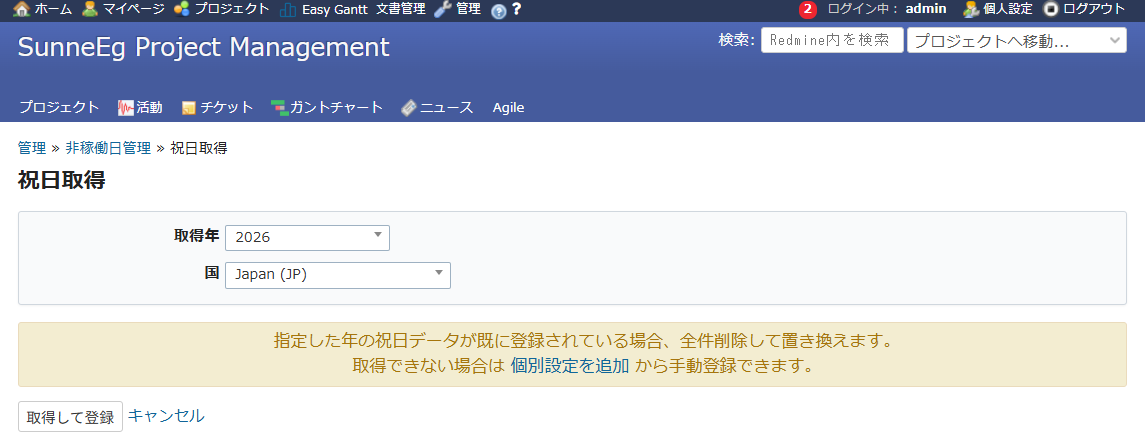
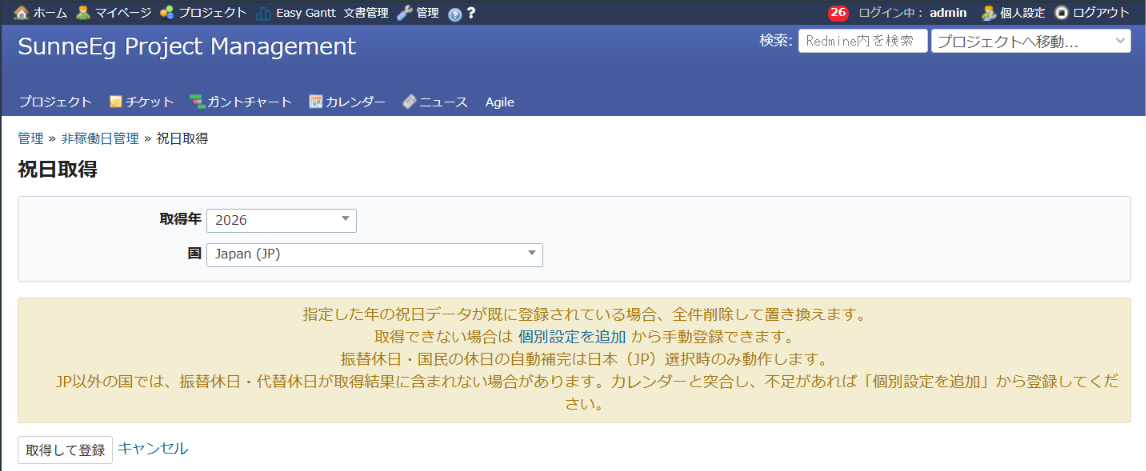
Complete Japanese substitute and citizens' holidays on import
Importing Japanese holidays through Nager.Date produced a calendar that
did not match the legal Japanese one. The API returns neither substitute
holidays (振替休日, Article 3(2)) nor citizens' holidays (国民の休日,
Article 3(3)), and when a holiday falls on a Sunday it shifts that
holiday to its observed date and returns a single entry, dropping the
statutory date.

  2024: nothing on 09-23; correct is 09-22 Autumnal Equinox Day (Sun)
        plus 09-23 substitute holiday
  2025: 02-24 "天皇誕生日"; correct is 02-23 plus 02-24 substitute
  2026: 05-06 "憲法記念日"; correct is 05-03 plus 05-06 substitute
  2026: nothing on 09-22; correct is 09-22 citizens' holiday

That "shift and return one entry" model is right for countries where
only the observed day is a statutory day off, but not for Japan, where
the statutory date stays a holiday and the substitute day is added on
top of it. Since the rules differ per country this is applied to JP
only, as a post-processing step after the fetch.

The correction runs in two stages:

1. Restore statutory dates. A table of fixed-date holidays maps a name
   to its statutory date, and a holiday the API shifted is moved back.
   To avoid corrupting correct data this happens only when the name
   matches the table, the statutory date falls on a Sunday, and the API
   returned a later date. Anything else passes through untouched, so an
   unrecognised name simply falls back to the API's own result.
[…]

diff --git a/lib/redmine_non_working_days/japanese_holidays.rb b/lib/redmine_non_working_days/japanese_holidays.rb
@@ -1,0 +1,188 @@
+# frozen_string_literal: true
+
+module RedmineNonWorkingDays
+  # 日本の「国民の祝日に関する法律」に基づき、祝日取得結果を補正・補完する。
+  #
+  # Nager.Date API の日本データには2種類の問題がある。
+  #   A. 日曜と重なった祝日を振替日へ移動して1件だけ返し、法定日が結果から消える
+  #      （例: 2026年は 05-06 を「憲法記念日」として返し、法定日の 05-03 を返さない）
+  #   B. 移動処理が働かない年があり、その場合は振替休日が完全に欠落する
+  #      （例: 2024-09-23、2027-03-22）。国民の休日も返さない（例: 2026-09-22）
+  #
+  # 日本は法定日も祝日のまま残したうえで振替休日が加わる（休みは2日）が、
+  # 英米は振替日のみが法定休日（1日）であり、APIの返し方は英米には適合する。
+  # 制度が国ごとに異なるため、本モジュールは日本にのみ適用する。
+  #
+  # DB・HTTPに依存しない純粋なロジックとして実装し、単体で検証できるようにしている。
+  module JapaneseHolidays
+    COUNTRY_CODE = 'JP'
+
+    # 振替休日（法第3条第2項）の施行日。1973-04-12 の改正法から。
+    SUBSTITUTE_START_DATE = Date.new(1973, 4, 12)
+    # 2007-01-01 施行の改正で「翌日」から「その日後で最も近い祝日でない日」へ変更。
+    # それ以前は翌日が祝日の場合、振替休日は発生しない。
+    SUBSTITUTE_NEAREST_FROM = Date.new(2007, 1, 1)
+    # 国民の休日（法第3条第3項）の施行日。1985-12-27 の改正法から。
+    CITIZENS_START_DATE = Date.new(1985, 12, 27)
+
+    # 法定日が固定されている祝日の対応表（名称 => [[月, 日, 適用開始年, 適用終了年], ...]）。
+    # 適用終了年 nil は現行制度。同じ名称で法定日が変わったものは複数行持つ。
+    #
+    # ハッピーマンデー（成人の日・海の日・敬老の日・スポーツの日の現行制度）は
+    # 必ず月曜となり日曜と重ならないため、現行期間は対象外。
+    # 春分の日・秋分の日は日付が変動するうえ、APIが移動させない実測結果のため対象外。
+    FIXED_DATE_HOLIDAYS = {
+      '元日'         => [[1, 1, 1949, nil]],
+      '成人の日'     => [[1, 15, 1949, 1999]],   # 2000年からハッピーマンデー
+      '建国記念の日' => [[2, 11, 1967, nil]],
+      '天皇誕生日'   => [[4, 29, 1949, 1988],    # 昭和
+                        [12, 23, 1989, 2018],   # 平成
+                        [2, 23, 2020, nil]],    # 令和（2019年は該当なし）
+      'みどりの日'   => [[4, 29, 1989, 2006],
+                        [5, 4, 2007, nil]],
+      '昭和の日'     => [[4, 29, 2007, nil]],
+      '憲法記念日'   => [[5, 3, 1949, nil]],
+      'こどもの日'   => [[5, 5, 1949, nil]],
+      '海の日'       => [[7, 20, 1996, 2002]],   # 2003年からハッピーマンデー
+      '山の日'       => [[8, 11, 2016, nil]],
+      '敬老の日'     => [[9, 15, 1966, 2002]],   # 2003年からハッピーマンデー
+      '体育の日'     => [[10, 10, 1966, 1999]],  # 2000年からハッピーマンデー
+      '文化の日'     => [[11, 3, 1948, nil]],
+      '勤労感謝の日' => [[11, 23, 1948, nil]],
+    }.freeze
+
+    # generate() への入力を「第2条の国民の祝日」に限定するための除外マーカー。
+    # 現行制度上、第2条の国民の祝日の名称にはこれらの文字列を含まない。APIが
+    # 将来これらを独立エントリとして返すようになった場合、除外せずに渡すと
+    # 「休日」を「祝日」と誤認し、次の振替休日判定を1日後ろへ余分にずらして
+    # しまう（レビュー指摘: MR!59 #1121）。
+    #
+    # 部分一致のため、特別法上の祝日（例: 2019年即位関連の「休日（祝日扱い）」）
+    # のように名称に「休日」を含む祝日が入力に来ると誤って除外されうる。ただし
+    # そうした特別法上の祝日はこのモジュールの対応表・対応年に含めておらず
+    # （README「Japanese Holidays」節に明記）、現行のNager.Date APIも該当する
+    # 年・名称を返さないため（1980〜2035年で実測、該当0件）、現時点で誤爆は
+    # 発生しない（レビュー指摘: MR!59 #1133）。
+    DAY_OFF_TITLE_MARKERS = ['休日', 'Substitute', 'Observed'].freeze
+
+    module_function
+
+    def applicable?(country_code)
+      country_code.to_s.upcase == COUNTRY_CODE
+    end
+
+    # 取得した祝日を補正・補完して、登録すべき祝日・休日の一覧を返す。
+    #
+    # @param entries [Array<Hash>] [{ date: Date, title: String }, ...]（API取得結果）
+    # @param year    [Integer] 取得対象年
+    # @return [Array<Hash>] [{ date: Date, title: String }, ...] を日付順で返す
+    def complete(entries, year)
+      corrected = correct_legal_dates(entries, year)
+
+      # 第2条の国民の祝日のみを generate() に渡す。既に「休日」であるエントリ
+      # （振替休日・国民の休日相当）を祝日として渡さない。
+      statutory_dates = corrected.reject { |e| day_off_title?(e[:title]) }.map { |e| e[:date] }
+
+      # 生成分は対象年内に限定する。取込は対象年のholidayを全削除して置き換える方式のため、
+      # 年をまたいで登録すると再取込時に洗い替えされず残骸になる。
+      generated = generate(statutory_dates).select { |e| e[:date].year == year }
+
+      # correct_legal_dates は複数エントリを同じ法定日へ書き戻すことがある
+      # （例: APIが法定日・観測日を同名で2件返した場合）。日付+名称が重複した
+      # 行を1件に畳む（レビュー指摘: MR!59 #1120）。DBにユニーク制約が無いため
+      # ここで畳んでおかないと create! がサイレントに重複登録してしまう。
+      (corrected + generated).uniq { |e| [e[:date], e[:title]] }.sort_by { |e| [e[:date], e[:title]] }
+    end
+
+    def day_off_title?(title)
+      DAY_OFF_TITLE_MARKERS.any? { |marker| title.to_s.include?(marker) }
+    end
+
+    # 問題A対策: APIが振替日へ移動して返した祝日を法定日へ戻す。
+    #
+    # 誤補正を避けるため、以下をすべて満たす場合のみ日付を戻す。
+    #   - 名称が対応表に一致する
+    #   - 取得年が当該祝日の適用年の範囲内である
+    #   - 法定日が日曜である（日本では日曜と重なった場合しか移動が起きない）
+    #   - APIの日付が法定日より後である（前倒し移動する国のロジックを誤適用しない）
+    # 一致しない場合は何もしないため、対応表が古くても現状より悪化しない。
+    def correct_legal_dates(entries, year)
+      entries.map do |entry|
+        legal = legal_date(entry[:title], year)
+        next entry if legal.nil?
+        next entry unless legal.sunday? && entry[:date] > legal
+
+        entry.merge(date: legal)
+      end
+    end
+
+    def legal_date(title, year)
+      rules = FIXED_DATE_HOLIDAYS[title]
+      return nil if rules.nil?
+
+      rule = rules.find { |(_m, _d, from, to)| year >= from && (to.nil? || year <= to) }
+      return nil if rule.nil?
+
+      Date.new(year, rule[0], rule[1])
+    end
+
+    # 問題B対策: 祝日から振替休日・国民の休日を導出する。
+    #
+    # @param holiday_dates [Enumerable<Date>] 祝日（振替休日等を含まない）の日付
+    def generate(holiday_dates)
+      holidays    = Set.new(Array(holiday_dates))
+      substitutes = substitute_dates(holidays)
+      citizens    = citizens_dates(holidays, substitutes)
+
+      (substitutes.map { |d| { date: d, title: substitute_title } } +
+       citizens.map    { |d| { date: d, title: citizens_title } }).sort_by { |h| h[:date] }
+    end
+
+    # 振替休日（法第3条第2項）:
+    # 祝日が日曜に当たるとき、その日後で最も近い「祝日でない日」を休日とする。
+    def substitute_dates(holidays)
+      result = []
+      holidays.select { |d| d.sunday? && d >= SUBSTITUTE_START_DATE }.sort.each do |sunday|
+        candidate = sunday + 1
+        if sunday >= SUBSTITUTE_NEAREST_FROM
+          candidate += 1 while holidays.include?(candidate) || result.include?(candidate)
+        else
+          # 改正前は翌日固定。翌日が祝日なら振替休日は発生しない。
+          next if holidays.include?(candidate)
+        end
+        result << candidate
+      end
+      result
+    end
+
+    # 国民の休日（法第3条第3項）:
+    # 前日・翌日がいずれも祝日である日を休日とする。
+    # ただし日曜日・振替休日に当たる日は除く。
+    def citizens_dates(holidays, substitute_dates)
+      return [] if holidays.empty?
+
+      excluded = holidays | Set.new(substitute_dates)
+      (holidays.min..holidays.max).select do |date|
+        date >= CITIZENS_START_DATE &&
+          !excluded.include?(date) &&
+          !date.sunday? &&
+          holidays.include?(date - 1) &&
+          holidays.include?(date + 1)
+      end
+    end
+
+    # タイトルはRedmineのデフォルト言語で決定する（Cache.weekday_title と同様）。
+    # 取得操作をしたユーザーの個人設定でDBに保存される名称が変わらないようにするため。
+    def substitute_title
+      translate(:label_non_working_day_substitute_holiday, '振替休日')
+    end
+
+    def citizens_title
+      translate(:label_non_working_day_citizens_holiday, '国民の休日')
+    end
+
+    def translate(key, fallback)
+      ::I18n.t(key, locale: ::Setting.default_language, default: fallback)
+    end
+  end
+end

diff --git a/app/controllers/non_working_days_controller.rb b/app/controllers/non_working_days_controller.rb
@@ -155,30 +155,35 @@ class NonWorkingDaysController < ApplicationController
       return redirect_to fetch_non_working_day_holidays_path(year: year)
     end
 
+    # Nager.Date API は州・地域ごとの祝日を別レコードとして返すため、
+    # 同一日付・同一名称のものが重複して含まれる（例: 米国の Good Friday）。
+    # 非稼働日カレンダーとしては日付＋名称が同じなら1件で十分なため重複排除する。
+    entries = holidays
+      .map { |h| { date: Date.parse(h['date']), title: h['localName'].presence || h['name'] } }
+      .uniq { |h| [h[:date], h[:title]] }
+
+    # 日本のみ: APIが返さない振替休日・国民の休日を補完し、
+    # APIが振替日へ移動して返した祝日を法定日へ戻す。
+    entries = RedmineNonWorkingDays::JapaneseHolidays.complete(entries, year) if complete_jp_holidays?(country_code)
+
     NonWorkingDayEntry.transaction do
       # 指定年の holiday を国コードに関わらず全削除して置き換え
       NonWorkingDayEntry.holidays
         .where('EXTRACT(YEAR FROM date) = ?', year)
         .delete_all
 
-      # Nager.Date API は州・地域ごとの祝日を別レコードとして返すため、
-      # 同一日付・同一名称のものが重複して含まれる（例: 米国の Good Friday）。
-      # 非稼働日カレンダーとしては日付＋名称が同じなら1件で十分なため重複排除する。
-      holidays
-        .map { |h| { date: Date.parse(h['date']), title: h['localName'].presence || h['name'] } }
-        .uniq { |h| [h[:date], h[:title]] }
-        .each do |h|
-          NonWorkingDayEntry.create!(
-            date:         h[:date],
-            title:        h[:title],
-            kind:         'holiday',
-            country_code: country_code
-          )
-        end
+      entries.each do |h|
+        NonWorkingDayEntry.create!(
+          date:         h[:date],
+          title:        h[:title],
+          kind:         'holiday',
+          country_code: country_code
+        )
+      end
     end
 
     RedmineNonWorkingDays::Cache.invalidate!
-    flash[:notice] = l(:notice_non_working_day_holidays_imported, count: holidays.size, year: year, country: country_code)
+    flash[:notice] = l(:notice_non_working_day_holidays_imported, count: entries.size, year: year, country: country_code)
     redirect_to non_working_days_path(year: year)
   end
 
@@ -231,6 +236,14 @@ class NonWorkingDaysController < ApplicationController
     PRIVATE_IP_RANGES.any? { |range| range.include?(addr) }
   rescue IPAddr::Error
     false # ホスト名（IPアドレスでない）の場合はここでは判定しない
+  end
+
+  # 振替休日・国民の休日の自動補完を行うか。日本以外では制度が異なるため適用しない。
+  # 設定が未保存の既存インストールでは既定でON（nil.to_s != '0'）。
+  def complete_jp_holidays?(country_code)
+    return false unless RedmineNonWorkingDays::JapaneseHolidays.applicable?(country_code)
+
+    Setting.plugin_redmine_non_working_days['auto_complete_jp_holidays'].to_s != '0'
   end
 
   def bulk_ids

diff --git a/init.rb b/init.rb
@@ -10,6 +10,7 @@ require_relative 'lib/redmine_non_working_days/date_calculation_patch'
 require_relative 'lib/redmine_non_working_days/gantt_helper'
 require_relative 'lib/redmine_non_working_days/gantt_patch'
 require_relative 'lib/redmine_non_working_days/hooks'
+require_relative 'lib/redmine_non_working_days/japanese_holidays'
 
 Redmine::Plugin.register :redmine_non_working_days do
   name        'Redmine Non Working Days'
@@ -17,9 +18,10 @@ Redmine::Plugin.register :redmine_non_working_days do
   author_url  'https://github.com/SunnyEg-lab'
   url         'https://github.com/SunnyEg-lab/redmine_non_working_days'
   description 'Manage non-working days by public holidays, custom dates, and recurring rules'
-  version     '1.1.0'
+  version     '1.2.0'
 
-  settings default: { 'nager_api_base' => 'https://date.nager.at' },
+  settings default: { 'nager_api_base'            => 'https://date.nager.at',
+                      'auto_complete_jp_holidays' => '1' },
            partial: 'settings/non_working_days_settings'
 
   menu :admin_menu,

diff --git a/README.md b/README.md
@@ -5,6 +5,7 @@ A Redmine plugin that manages non-working days — public holidays, custom fixed
 ## Features
 
 - **Public holiday import** — fetch public holidays per country/year via the [Nager.Date](https://date.nager.at/) API and register them with one click
+- **Japanese substitute holidays** — when importing holidays for Japan, substitute holidays (振替休日) and citizens' holidays (国民の休日) are completed automatically, and holidays the API shifted to their observed date are restored to their statutory date ([details](#japanese-holidays-jp-only))
 - **Custom fixed dates** — register one-off non-working days (e.g. summer/winter company holidays)
 - **Recurring rules** — define repeating non-working days using one of four patterns, each with an optional valid date range:
   - Specific day(s) of the month (e.g. the 15th and the last day)
@@ -110,9 +111,46 @@ This plugin adds an entry under the **Administration** menu. Viewing and editing
 Go to **Administration → Plugins → Redmine Non Working Days** to configure:
 
 - **Nager.Date API Base URL** — the base URL used to fetch public holiday data (defaults to `https://date.nager.at`)
+- **Auto-complete Japanese substitute holidays** — when importing holidays for Japan (JP), restore statutory dates and register substitute/citizens' holidays automatically (enabled by default; see [Japanese Holidays (JP only)](#japanese-holidays-jp-only))
 - **Delete All Non-Working Day Settings** — a one-click option (with confirmation) to remove all holidays, fixed dates, and recurring rules registered by this plugin; Redmine's native day-off settings (Administration → Settings → Issue tracking) are not affected
 
 > **Cache note:** In a multi-process environment (e.g. Passenger/Puma with multiple workers, multiple app servers), the default `:memory_store` is not shared between processes. Configure a shared cache store such as `:file_store` or `:mem_cache_store` if you run Redmine with multiple processes.
+
+## Japanese Holidays (JP only)
+
+Japan's Act on National Holidays grants two kinds of days off that are not national holidays themselves:
+
+- **Substitute holiday (振替休日)** — when a national holiday falls on a Sunday, the nearest following day that is not a national holiday becomes a day off (Article 3(2))
+- **Citizens' holiday (国民の休日)** — a day sandwiched between two national holidays becomes a day off, unless it is a Sunday or already a substitute holiday (Article 3(3))
+
+The Nager.Date API returns neither of them for Japan. Instead it shifts a Sunday holiday to its observed date and returns a single entry, which drops the statutory date:
+
+| Year | Nager.Date returns | Correct under Japanese law |
+|---|---|---|
+| 2024 | nothing on `09-23` | `09-22` Autumnal Equinox Day (Sun) + `09-23` substitute holiday |
+| 2025 | `02-24` "天皇誕生日" | `02-23` The Emperor's Birthday + `02-24` substitute holiday |
+| 2026 | `05-06` "憲法記念日" | `05-03` Constitution Memorial Day + `05-06` substitute holiday |
+| 2026 | nothing on `09-22` | `09-22` citizens' holiday |
+
+That "shift and return one entry" model is correct for countries where only the observed day is a statutory day off (the UK and the US, for example), but not for Japan, where the statutory date stays a holiday and the substitute day is added on top of it.
+
+When **JP** is selected, this plugin post-processes the fetched data in two steps:
+
+1. **Restore statutory dates** — holidays the API shifted to their observed date are moved back. To avoid corrupting correct data this is applied only when the holiday's name matches a known fixed-date holiday, the statutory date falls on a Sunday, and the API returned a later date. Anything else is left untouched, so an unrecognised name simply falls back to the API's own result.
+2. **Derive days off** — substitute holidays and citizens' holidays are computed per Article 3(2) and 3(3), and registered alongside the fetched holidays.
+
+Generated entries use `kind: holiday`, the same as fetched holidays, and are titled using the instance's default language (振替休日 / Substitute Holiday, 国民の休日 / Citizens' Holiday). Because an import replaces every holiday of the target year, re-importing is idempotent — generated entries are refreshed as well, never duplicated.
+
+Set this behaviour on or off in the plugin settings (see [Settings](#settings)).
+
+> **Note:** This correction assumes the fetched holiday data is itself correct for the requested year. Nager.Date's JP data has been checked against Japan's official holiday calendar for 2016 through 2027 (Japan's Cabinet Office does not publish official holiday data further ahead than this — 2028's holidays, for example, are only published in February 2027), except for the 2019 accession holidays and the 2020/2021 Olympic date shifts, which it does not reflect. (Separately, the Sunday-holiday shift this correction depends on has been spot-checked through 2035 with no issues found, but full-year accuracy beyond 2027 has not been verified against an official source.) For years before 2016, the API retroactively applies rules that didn't exist yet (e.g. returning "Happy Monday" dates, or Mountain Day, before those rules/holidays existed), which can make this plugin derive a citizens' holiday that never legally existed. If you import an older year or a year with a known exception, verify the result against an authoritative calendar.
+
+### Other countries
+
+For any country other than JP, imported data is registered exactly as the API returns it. No correction or completion is applied, even when the setting above is enabled.
+
+Substitute-holiday rules differ from country to country: some substitute only for Sunday, others for Saturday as well; some move the day off backwards to the preceding Friday; some grant both the statutory date and the substitute. Handling each correctly requires that country's law, so this plugin does not attempt it. Verify the imported result against a local calendar and add any missing days as fixed dates.
+
 ## REST API
 
 ```
